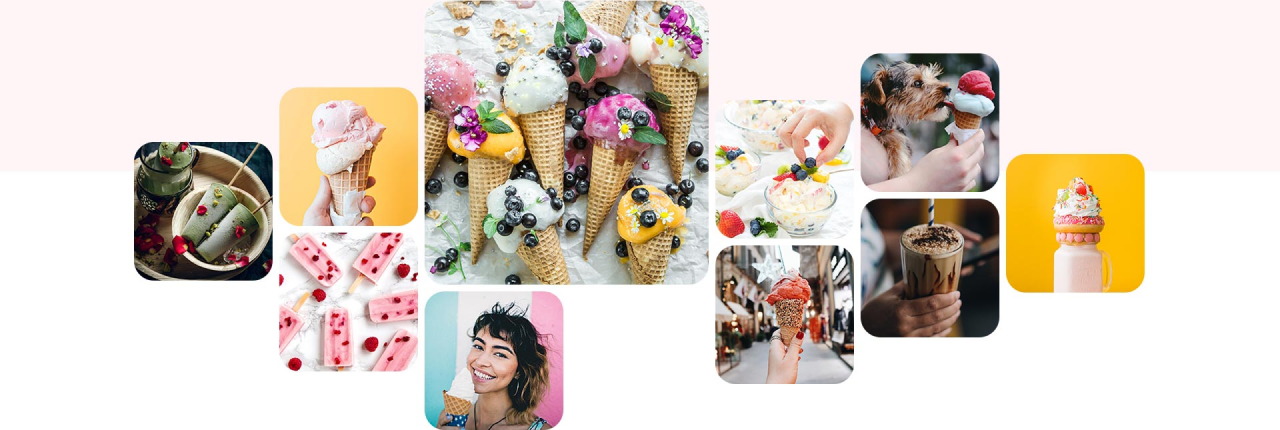
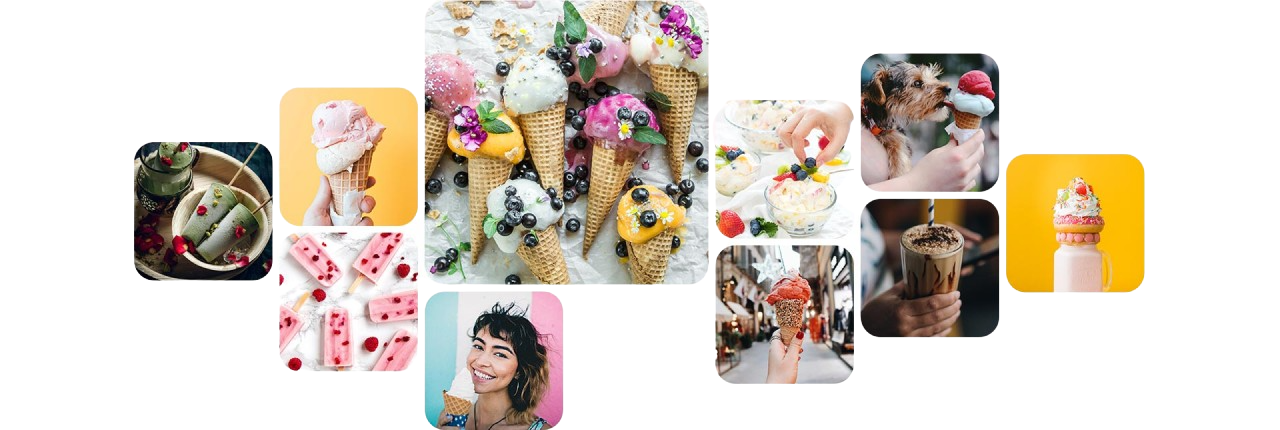
Gallery
Dodałem zdjęcia z usuniętym tłem, aby ustawić tło za pomocą linear-gradient.  Sekcja jest gotowa dla każdej szerokości ekranu. <picutre> które jest zakomentowane nie wyświetlało nic. ( w inspektorze pokazywała się jakaś dziwna scieżka rózniąca się od tej w vscode) Za pomocą img udało się i obrazy zmieniają się w zależności od szerokości ekranu i gęstości pikseli.

diff --git a/src/partials/gallery.html b/src/partials/gallery.html
@@ -1,1 +1,43 @@
-<section class="gallery">gallery</section>
+<section class="gallery">
+  <img
+    src="images/gallery/gallery-tablet@2.png"
+    alt="gallery"
+    class="gallery__img"
+    srcset="
+      images/gallery/gallery-mobile.png     320w,
+      images/gallery/gallery-tablet.png     768w,
+      images/gallery/gallery-desktop.png   1280w,
+
+      images/gallery/gallery-mobile@2.png   640w,
+      images/gallery/gallery-tablet@2.png  1536w,
+      images/gallery/gallery-desktop@2.png 2560w
+    "
+    sizes="
+    (max-width:   767px) 320px,
+    (min-width: 768px) and (max-width: 1199px) 768px,
+    (min-width: 1200px) 1280px,
+    
+    (max-width:   1534px) 640px,
+    (min-width: 1534px) and (max-width: 2399px) 1536px,
+    (min-width: 2400px) 2560px
+                     "
+  />
+  <!-- <picture>
+    <source
+      srcset="images/gallery/gallery-mobile.png, images/gallery/gallery-mobile@2.png 2x"
+      media="(max-width: 767px)"
+    />
+
+    <source
+      srcset="images/gallery/gallery-tablet.png, images/gallery/gallery-tablet@2.png 2x"
+      media="(min-width: 768px) and (max-width:1200px)"
+    />
+
+    <source
+      srcset="images/gallery/gallery-desktop.png, images/gallery/gallery-desktop@2.png 2x"
+      media="(min-width: 1200px)"
+    />
+
+    <img src="images/gallery/gallery-tablet@2.png" alt="gallery" />
+  </picture>  -->
+</section>

diff --git a/src/sass/_gallery.scss b/src/sass/_gallery.scss
@@ -1,0 +1,28 @@
+.gallery {
+  height: 122px;
+  width: 100%;
+
+  background-image: linear-gradient(
+    180deg,
+    getColor('background-light-pink') 40%,
+    getColor('background-white') 0%
+  );
+  &__img {
+    margin: 0 auto;
+  }
+}
+@media screen and (min-width: 768px) {
+  .gallery {
+    height: 264px;
+  }
+}
+@media screen and (min-width: 768px) {
+  .gallery {
+    height: 264px;
+  }
+}
+@media screen and (min-width: 1200px) {
+  .gallery {
+    height: 430px;
+  }
+}
